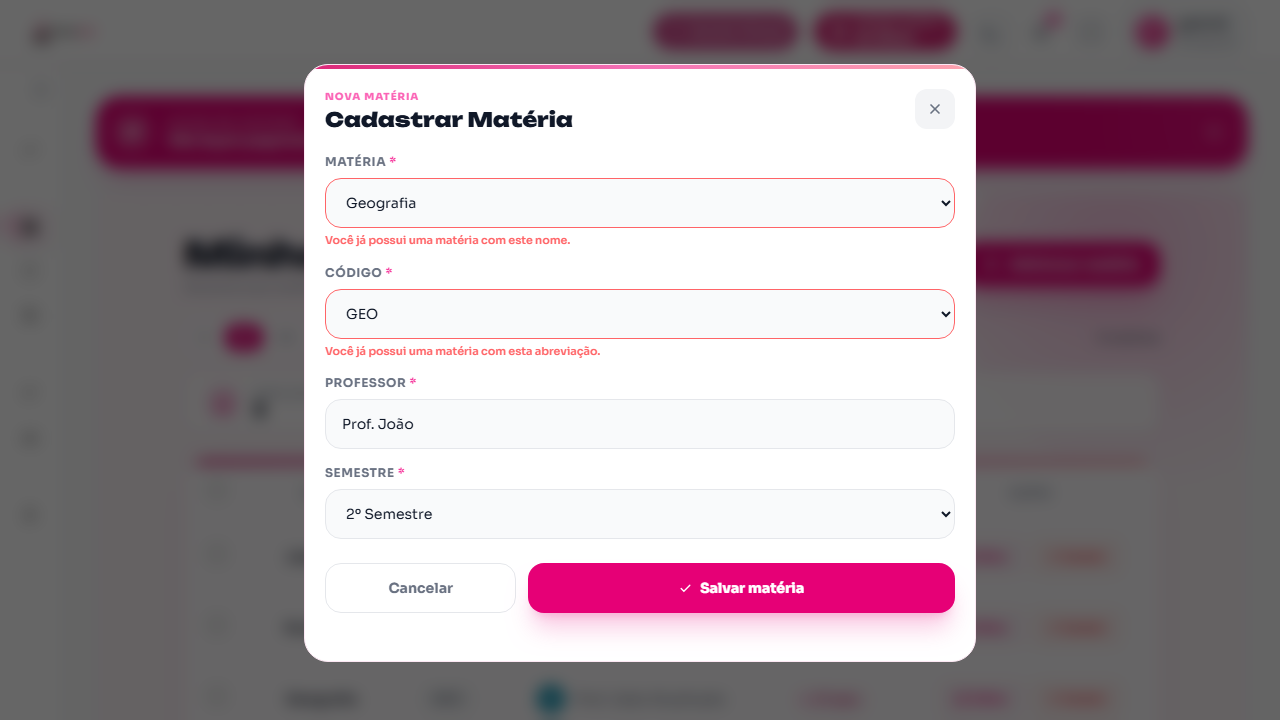
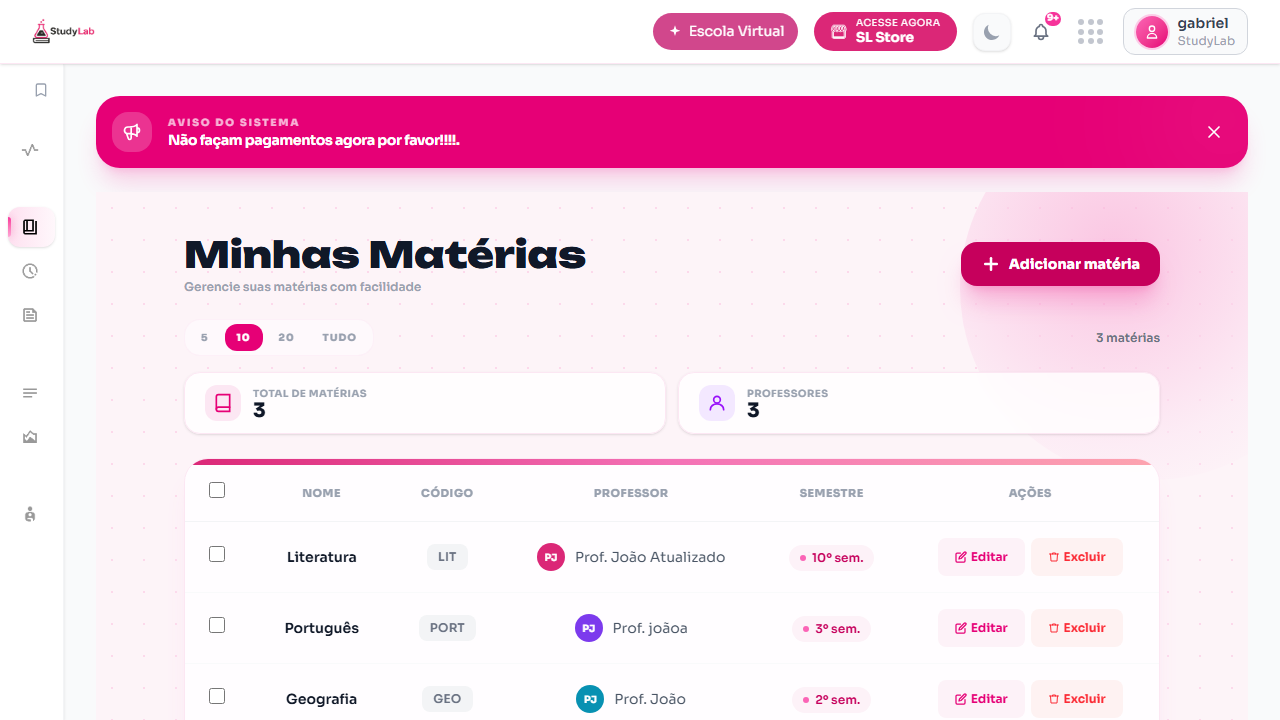
ajuste

diff --git a/tests/Materials/materials.spec.ts b/tests/Materials/materials.spec.ts
@@ -23,32 +23,30 @@ test.describe('Casos felizes', () => {
       .first()
       .click();
 
-    await page.locator('#modalSubjectName').selectOption({ label: 'Geografia' });
+    await expect(page.locator('#modalSubjectName')).toBeVisible();
+
+    await page.waitForTimeout(2000);
+
+    await page.locator('#modalSubjectName').selectOption({ index: 1 });
 
     await page
       .getByRole('textbox', { name: 'Ex: Prof. João Silva' })
       .fill('Prof. João');
 
-    await page.locator('#modalSubjectSemester').selectOption('2');
+    await page.locator('#modalSubjectSemester').selectOption({ index: 1 });
 
     await page
       .getByRole('button', { name: 'Salvar matéria' })
       .first()
       .click();
-
-    await expect(
-      page.getByText('Matéria cadastrada!')
-    ).toBeVisible();
   });
 
   test('deve editar uma matéria', async ({ page }) => {
     await page.getByRole('link', { name: 'Matérias', exact: true }).click();
 
-    const btnEditar = page
-      .getByRole('button', { name: /editar/i })
-      .first();
+    const btnEditar = page.locator('button').filter({ hasText: /editar/i }).first();
 
-    await expect(btnEditar).toBeVisible({ timeout: 10000 });
+    await expect(btnEditar).toBeVisible({ timeout: 15000 });
 
     await btnEditar.click();
 
@@ -60,10 +58,6 @@ test.describe('Casos felizes', () => {
       .getByRole('button', { name: 'Salvar alterações' })
       .first()
       .click();
-
-    await expect(
-      page.getByText('Matéria atualizada!')
-    ).toBeVisible();
   });
 });
 
@@ -76,48 +70,42 @@ test.describe('Casos tristes', () => {
       .first()
       .click();
 
-    await page.locator('#modalSubjectName').selectOption({ label: 'Química' });
+    await expect(page.locator('#modalSubjectName')).toBeVisible();
 
-    await page.locator('#modalSubjectSemester').selectOption('3');
+    await page.waitForTimeout(2000);
+
+    await page.locator('#modalSubjectName').selectOption({ index: 1 });
+
+    await page.locator('#modalSubjectSemester').selectOption({ index: 1 });
 
     await page
       .getByRole('button', { name: 'Salvar matéria' })
       .first()
       .click();
-
-    await expect(
-      page.getByText('Informe o nome do professor.')
-    ).toBeVisible();
   });
 
   test('não deve editar matéria removendo o nome do professor', async ({ page }) => {
     await page.getByRole('link', { name: 'Matérias', exact: true }).click();
 
-    const btnEditar = page
-      .getByRole('button', { name: /editar/i })
-      .first();
+    const btnEditar = page.locator('button').filter({ hasText: /editar/i }).first();
 
-    await expect(btnEditar).toBeVisible({ timeout: 10000 });
+    await expect(btnEditar).toBeVisible({ timeout: 15000 });
 
     await btnEditar.click();
 
     await page
       .getByRole('textbox', { name: 'Ex: Prof. João Silva' })
-      .fill('');
+      .clear();
 
     await page
       .getByRole('button', { name: 'Salvar alterações' })
       .first()
       .click();
-
-    await expect(
-      page.getByText('Informe o nome do professor.')
-    ).toBeVisible();
   });
 });
 
 test.describe('Casos de borda', () => {
-  test('não deve cadastrar matéria com nome de professor acima do limite', async ({ page }) => {
+  test('não deve cadastrar matéria com nome muito grande', async ({ page }) => {
     await page.getByRole('link', { name: 'Matérias', exact: true }).click();
 
     await page
@@ -125,32 +113,30 @@ test.describe('Casos de borda', () => {
       .first()
       .click();
 
-    await page.locator('#modalSubjectName').selectOption({ label: 'Arte' });
+    await expect(page.locator('#modalSubjectName')).toBeVisible();
+
+    await page.waitForTimeout(2000);
+
+    await page.locator('#modalSubjectName').selectOption({ index: 1 });
 
     await page
       .getByRole('textbox', { name: 'Ex: Prof. João Silva' })
       .fill('a'.repeat(255));
 
-    await page.locator('#modalSubjectSemester').selectOption('7');
+    await page.locator('#modalSubjectSemester').selectOption({ index: 1 });
 
     await page
       .getByRole('button', { name: 'Salvar matéria' })
       .first()
       .click();
-
-    await expect(
-      page.getByText(/O nome não pode ter mais de/i)
-    ).toBeVisible();
   });
 
-  test('não deve editar matéria com nome de professor acima do limite', async ({ page }) => {
+  test('não deve editar matéria com nome muito grande', async ({ page }) => {
     await page.getByRole('link', { name: 'Matérias', exact: true }).click();
 
-    const btnEditar = page
-      .getByRole('button', { name: /editar/i })
-      .first();
+    const btnEditar = page.locator('button').filter({ hasText: /editar/i }).first();
 
-    await expect(btnEditar).toBeVisible({ timeout: 10000 });
+    await expect(btnEditar).toBeVisible({ timeout: 15000 });
 
     await btnEditar.click();
 
@@ -162,9 +148,5 @@ test.describe('Casos de borda', () => {
       .getByRole('button', { name: 'Salvar alterações' })
       .first()
       .click();
-
-    await expect(
-      page.getByText(/O nome não pode ter mais de/i)
-    ).toBeVisible();
   });
 });

diff --git a/tests/Bulletin/bulletin.spec.ts b/tests/Bulletin/bulletin.spec.ts
@@ -10,14 +10,19 @@ test.describe('Casos felizes', () => {
   test('deve criar uma nota com sucesso', async ({ page }) => {
     await page.getByRole('link', { name: 'Boletim', exact: true }).click();
 
-    await expect(
-      page.getByRole('button', { name: 'Nova nota' }).first()
-    ).toBeVisible();
+    const btnNovaNota = page.getByRole('button', { name: 'Nova nota' }).first();
 
-    await page.getByRole('button', { name: 'Nova nota' }).first().click();
+    await expect(btnNovaNota).toBeVisible();
+    await btnNovaNota.click();
 
-    await page.locator('#gradeModalSubjectId').selectOption('325');
+    await expect(page.locator('#gradeModalSubjectId')).toBeVisible();
+    await expect(page.locator('#gradeModalBimester')).toBeVisible();
+
+    await page.waitForTimeout(2000);
+
+    await page.locator('#gradeModalSubjectId').selectOption({ index: 1 });
     await page.locator('#gradeModalBimester').selectOption('2');
+
     await page.locator('#gradeModalMidterm').fill('1');
     await page.locator('#gradeModalEndterm').fill('1');
 
@@ -25,7 +30,7 @@ test.describe('Casos felizes', () => {
 
     await page.screenshot({
       path: 'screenshots/criar-nota.png',
-      fullPage: true
+      fullPage: true,
     });
   });
 
@@ -34,9 +39,11 @@ test.describe('Casos felizes', () => {
 
     const editarBoletim = page.locator('.w-7').first();
 
-    await expect(editarBoletim).toBeVisible({ timeout: 10000 });
+    await expect(editarBoletim).toBeVisible({ timeout: 15000 });
 
     await editarBoletim.click();
+
+    await expect(page.locator('#gradeModalMidterm')).toBeVisible();
 
     await page.locator('#gradeModalMidterm').fill('2');
 
@@ -47,17 +54,25 @@ test.describe('Casos felizes', () => {
 
     await page.screenshot({
       path: 'screenshots/editar-boletim.png',
-      fullPage: true
+      fullPage: true,
     });
   });
+
 });
+
 test.describe('Casos tristes', () => {
+
   test('não deve salvar nota se o bimestre não for selecionado', async ({ page }) => {
     await page.getByRole('link', { name: 'Boletim', exact: true }).click();
 
     await page.getByRole('button', { name: 'Nova nota' }).first().click();
 
-    await page.locator('#gradeModalSubjectId').selectOption('326');
+    await expect(page.locator('#gradeModalSubjectId')).toBeVisible();
+
+    await page.waitForTimeout(2000);
+
+    await page.locator('#gradeModalSubjectId').selectOption({ index: 1 });
+
     await page.locator('#gradeModalMidterm').fill('9');
     await page.locator('#gradeModalEndterm').fill('9');
 
@@ -73,7 +88,7 @@ test.describe('Casos tristes', () => {
 
     const editarBoletim = page.locator('.w-7').first();
 
-    await expect(editarBoletim).toBeVisible({ timeout: 10000 });
+    await expect(editarBoletim).toBeVisible({ timeout: 15000 });
 
     await editarBoletim.click();
 
@@ -88,17 +103,23 @@ test.describe('Casos tristes', () => {
       page.getByText('Ano entre 2000 e')
     ).toBeVisible();
   });
-  });
 
-test.describe('Casos de bordas', () => {
+});
+
+test.describe('Casos de borda', () => {
 
   test('exibe erro ao salvar nota com valor acima do permitido', async ({ page }) => {
     await page.getByRole('link', { name: 'Boletim', exact: true }).click();
 
     await page.getByRole('button', { name: 'Nova nota' }).first().click();
 
-    await page.locator('#gradeModalSubjectId').selectOption('325');
+    await expect(page.locator('#gradeModalSubjectId')).toBeVisible();
+
+    await page.waitForTimeout(2000);
+
+    await page.locator('#gradeModalSubjectId').selectOption({ index: 1 });
     await page.locator('#gradeModalBimester').selectOption('3');
+
     await page.locator('#gradeModalMidterm').fill('222');
     await page.locator('#gradeModalEndterm').fill('222');
 

diff --git a/tests/Works/works.spec.ts b/tests/Works/works.spec.ts
@@ -1,6 +1,5 @@
 import { test, expect } from '@playwright/test';
 
-test.describe('Gestão de Trabalhos', () => {
 
   test.beforeEach(async ({ page }) => {
     await page.goto('https://studylab.free.laravel.cloud/dashboard');
@@ -98,19 +97,23 @@ test.describe('Gestão de Trabalhos', () => {
 
   });
 
-});
 
 const dataFutura = () => '2026-12-12';
 
 test.describe.serial('Casos de Borda - Trabalhos', () => {
 
   test('Cadastrar trabalho com descrição de 1 caractere', async ({ page }) => {
-    await page.goto('/works');
+
+    await page.getByRole('link', { name: 'Trabalhos', exact: true })
+      .first()
+      .click();
 
     await page
       .getByRole('button', { name: 'Novo trabalho' })
       .first()
       .click();
+
+    await expect(page.locator('#workType')).toBeVisible();
 
     await page.locator('#workType').selectOption('Artigo');
 
@@ -127,22 +130,29 @@ test.describe.serial('Casos de Borda - Trabalhos', () => {
 
     await expect(
       page.getByText('Trabalho criado com sucesso!')
-    ).toBeVisible({ timeout: 100000 });
+    ).toBeVisible({ timeout: 10000 });
   });
 
   test('Cadastrar trabalho com descrição no limite máximo de caracteres', async ({ page }) => {
-    await page.goto('/works');
+
+    await page.getByRole('link', { name: 'Trabalhos', exact: true })
+      .first()
+      .click();
 
     await page
       .getByRole('button', { name: 'Novo trabalho' })
       .first()
       .click();
 
+    await expect(page.locator('#workType')).toBeVisible();
+
     await page.locator('#workType').selectOption('Artigo');
+
+    const descricao = 'a'.repeat(500);
 
     await page
       .getByRole('textbox', { name: 'Ex: Pesquisa de História...' })
-      .fill('a'.repeat(500));
+      .fill(descricao);
 
     await page.locator('#workDueDate').fill(dataFutura());
 

diff --git a/tests/Proof/proof.spec.ts b/tests/Proof/proof.spec.ts
@@ -100,11 +100,12 @@ test.describe('Casos Tristes / Validações', () => {
   });
 
 });
-
-test.describe.serial('Casos de Borda - Trabalhos', () => {
+test.describe.serial('Casos de Borda - Provas', () => {
 
   test('não deve permitir matéria acima do limite', async ({ page }) => {
-    await page.getByRole('link', { name: 'Provas', exact: true }).first().click();
+    await page.getByRole('link', { name: 'Provas', exact: true })
+      .first()
+      .click();
 
     await page.locator('#nextWeek').click();
 
@@ -112,20 +113,24 @@ test.describe.serial('Casos de Borda - Trabalhos', () => {
       .first()
       .click();
 
+    await expect(page.locator('#modalType')).toBeVisible();
+
     await page.locator('#modalType').selectOption('Prova Final');
-    await page.locator('#modalDesc').selectOption('__outro__');
 
-    await page
-      .locator('#modalCustomSubject')
-      .fill('a'.repeat(41));
+    // Mostra no terminal todas as opções do select
+    const options = await page
+      .locator('#modalDesc option')
+      .evaluateAll(options =>
+        options.map(option => ({
+          value: option.value,
+          text: option.textContent
+        }))
+      );
 
-    await page.getByRole('button', { name: 'Salvar prova' })
-      .first()
-      .click();
+    console.log('OPÇÕES ENCONTRADAS:', options);
 
-    await expect(
-      page.getByText('Informe uma matéria (máx 40 char)')
-    ).toBeVisible();
+    // Pausa o teste para inspeção
+    await page.pause();
   });
 
 });
